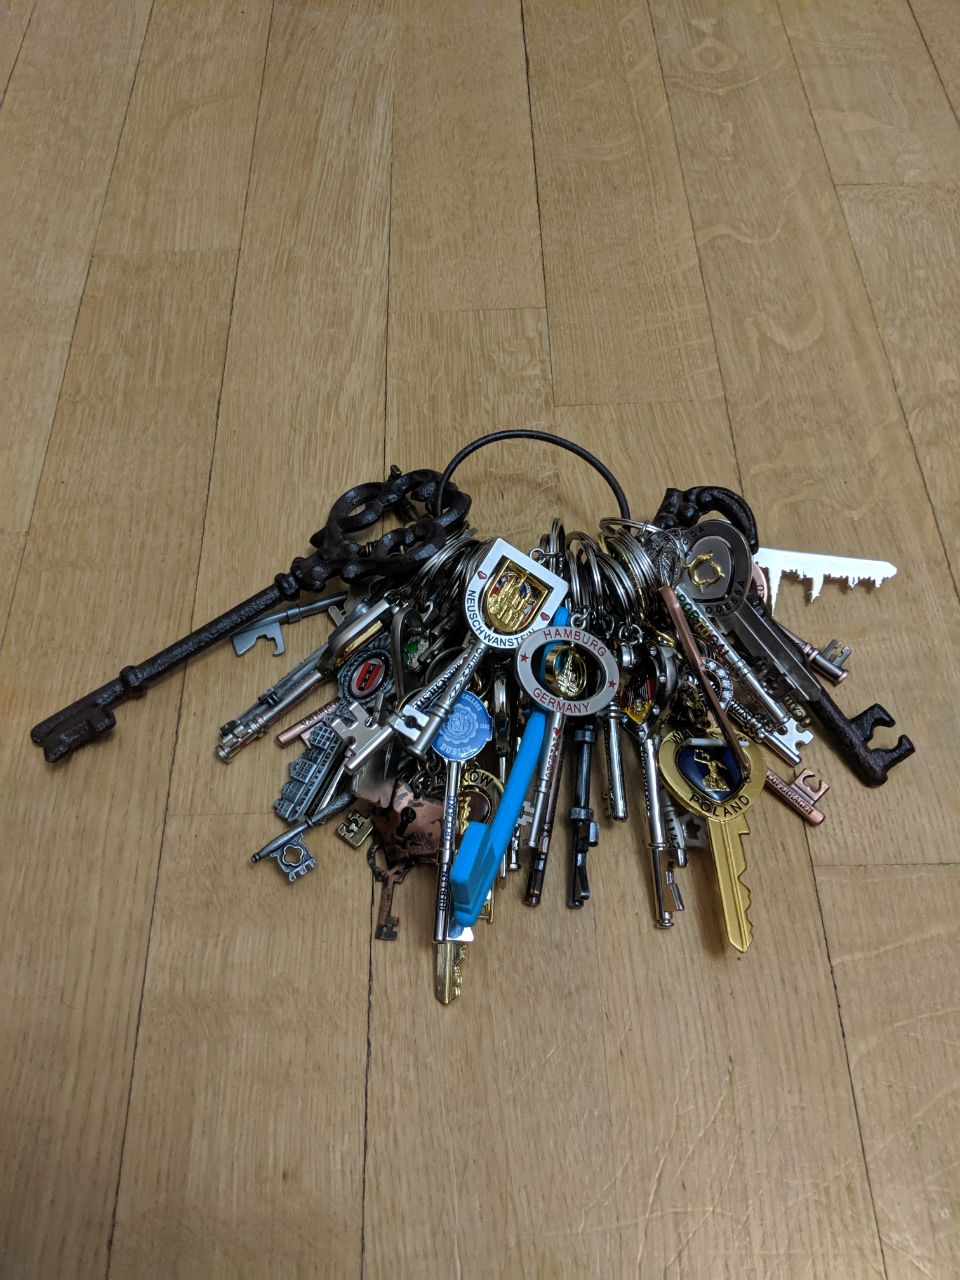
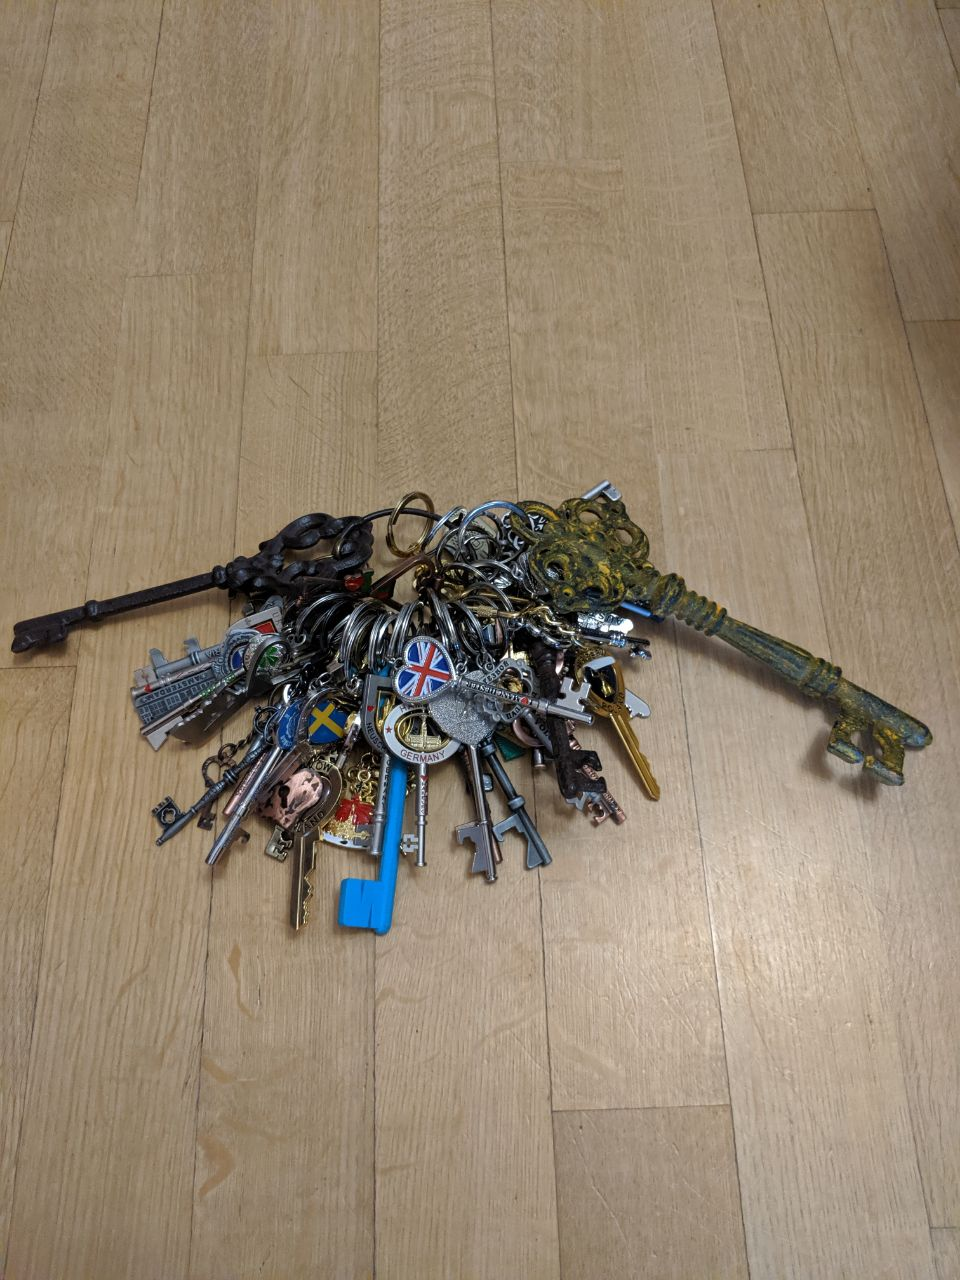
Add keys

diff --git a/keys/data.js b/keys/data.js
@@ -126,7 +126,7 @@ KEYS = {
             "pic": "keys/24_saint_vincent_cape.jpg",
             "year": 2018,
             "city": "🇵🇹Cape St. Vincent",
-            "additional": "The southwesternmost point of Portugal and of mainland Europe and the biggest key."
+            "additional": "The southwesternmost point of Portugal and of mainland Europe."
         },
         {
             "pic": "keys/25_vienna.jpg",
@@ -206,6 +206,39 @@ KEYS = {
             "year": 2019,
             "city": "🇨🇿Kutná Hora",
             "additional": "Key from the Sedlec Ossuary ☠."
-        }
+        },
+        {
+            "pic": "keys/40_linz.jpg",
+            "year": 2019,
+            "city": "🇦🇹Linz"
+        },
+        {
+            "pic": "keys/41_salzburg.jpg",
+            "year": 2019,
+            "city": "🇦🇹Salzburg",
+            "additional": "The Key 🎼."
+        },
+        {
+            "pic": "keys/42_salzburg_castle.jpg",
+            "year": 2019,
+            "city": "🇦🇹Hohensalzburg Fortress",
+            "additional": "The biggest key."
+        },
+        {
+            "pic": "keys/43_hallstatt.jpg",
+            "year": 2019,
+            "city": "🇦🇹Hallstatt"
+        },
+        {
+            "pic": "keys/44_klagenfurt.jpg",
+            "year": 2019,
+            "city": "🇦🇹Klagenfurt"
+        },
+        {
+            "pic": "keys/45_graz.jpg",
+            "year": 2019,
+            "city": "🇦🇹Graz",
+            "additional": "🔪"
+        },
     ]
 };
